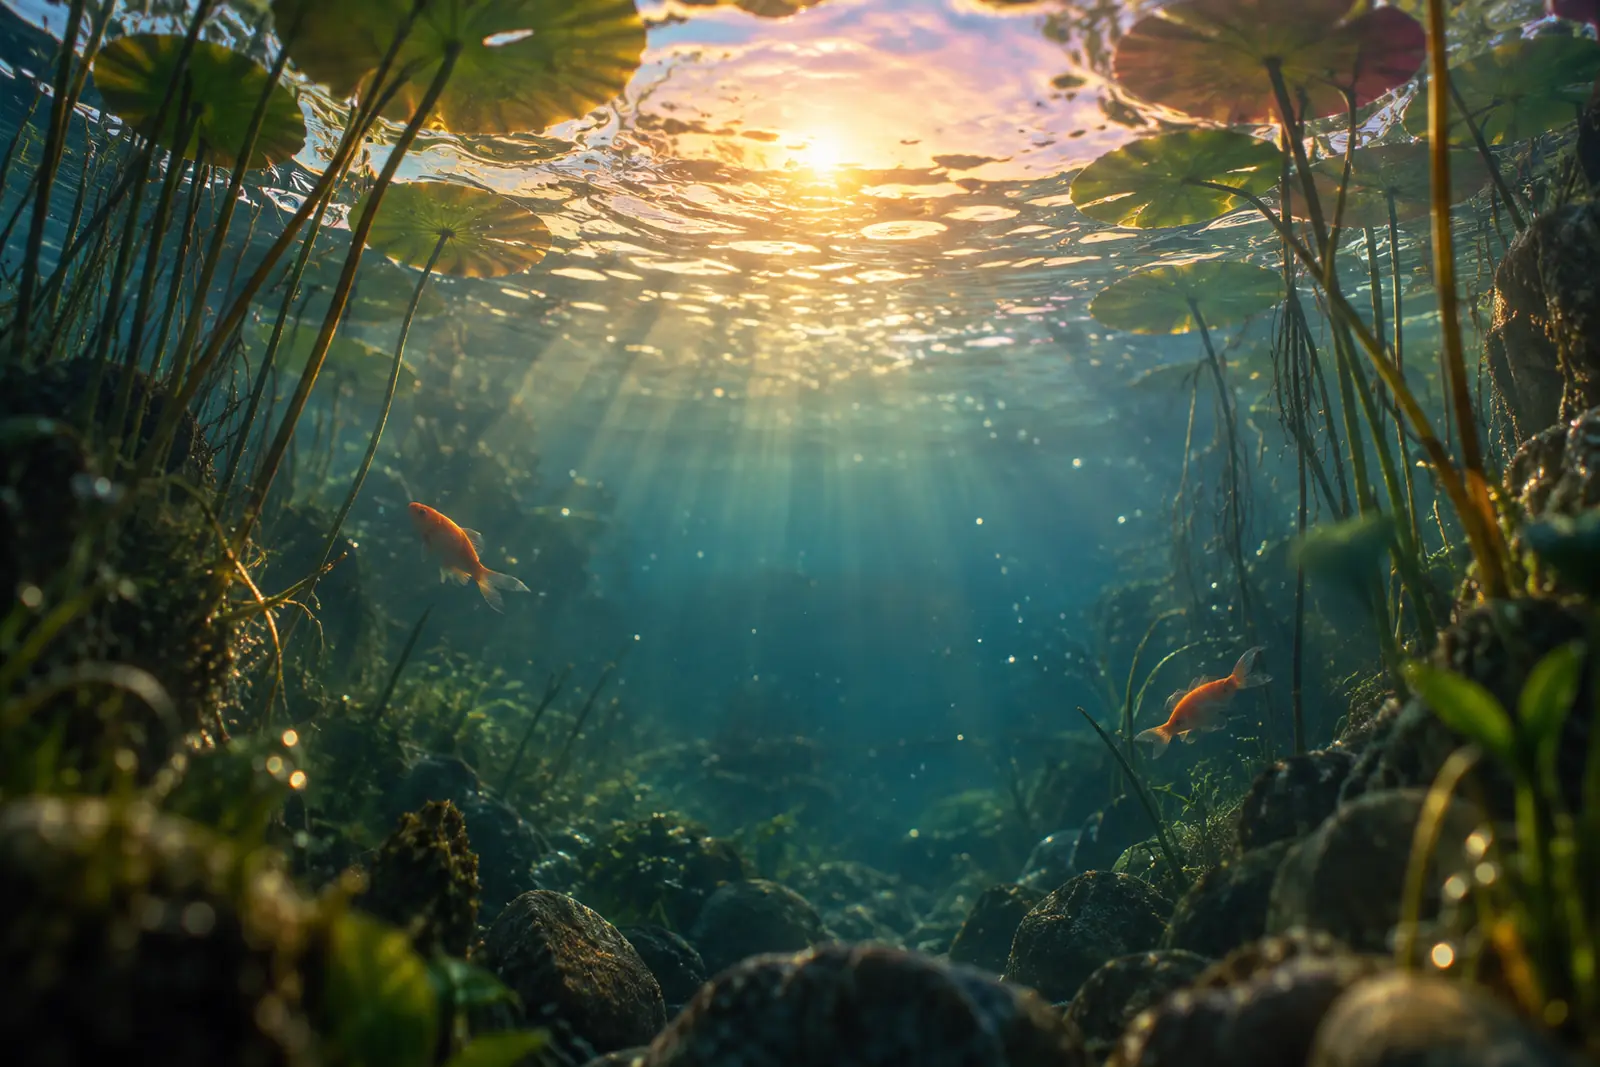
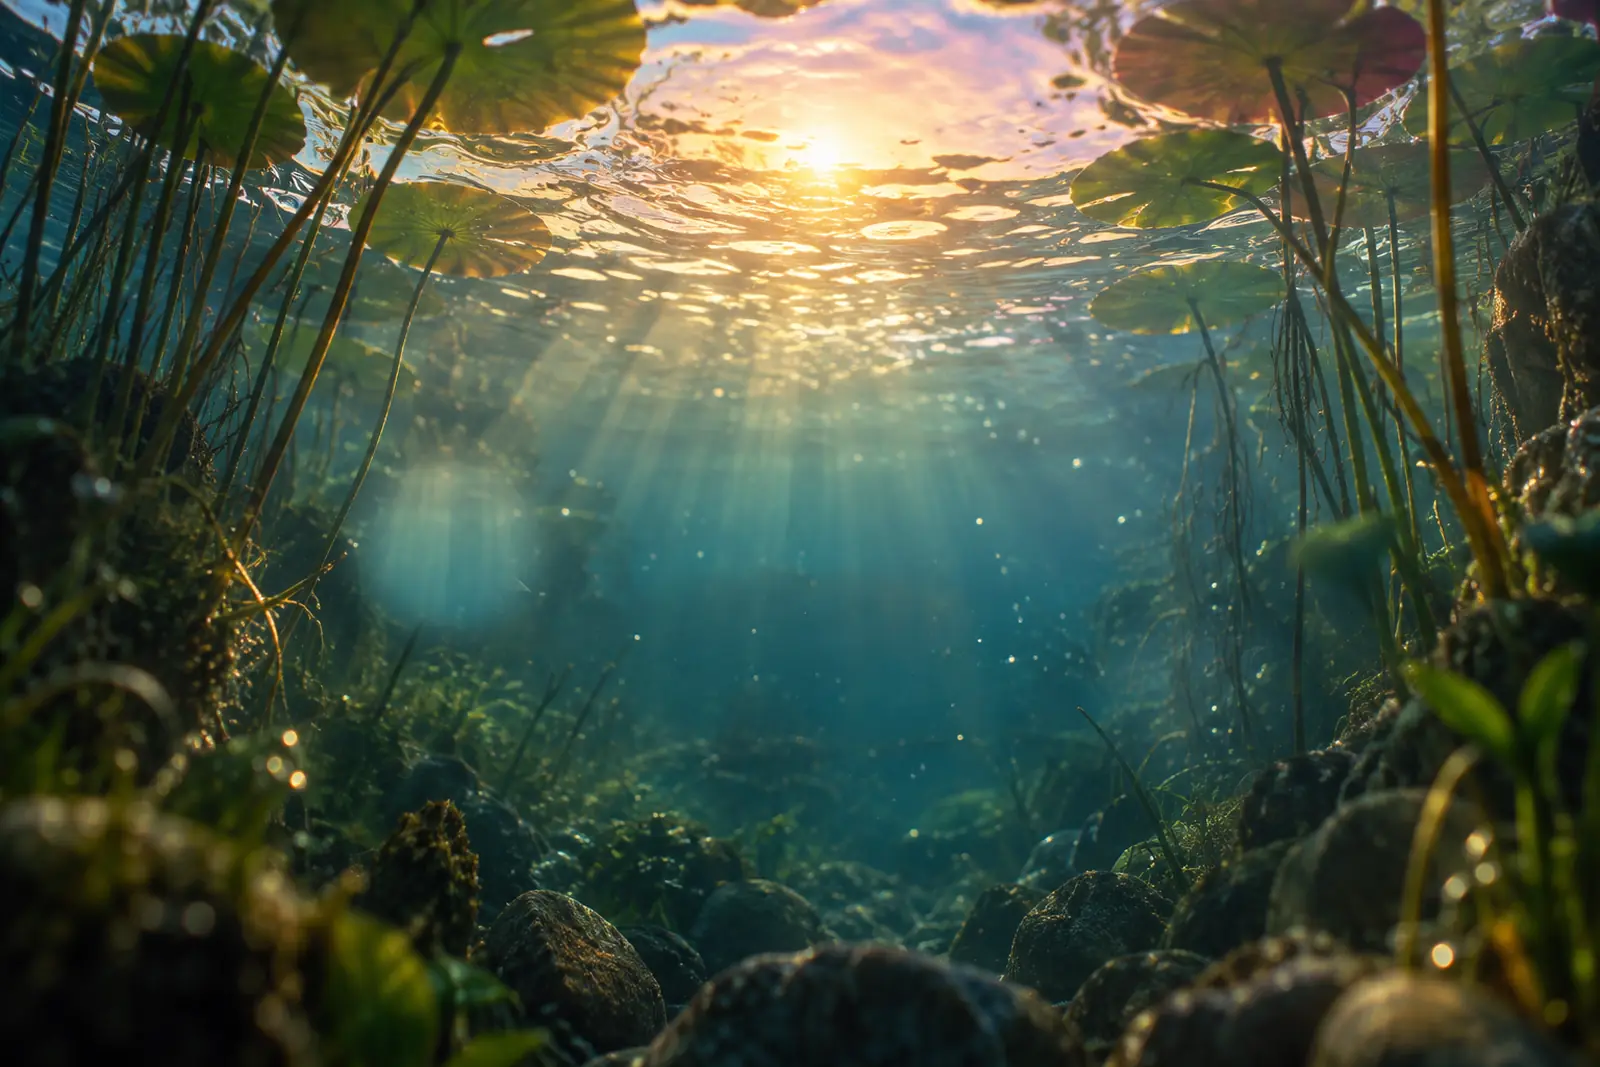
Transition: paint out the two pond fish, drop the songbird
Both orange fish were baked into transition-under, and showed through as
ghosts during the cross-fade; they are patched out with clean water from
the same plate. The songbird sprite read as pasted-on over the scene, so
it is gone too.

Changed region(s): [[0.2188, 0.4021, 0.3438, 0.5876], [0.6875, 0.5876, 0.8125, 0.7423]]

diff --git a/components/SceneLayers.jsx b/components/SceneLayers.jsx
@@ -169,24 +169,14 @@ export default function SceneLayers({ preset }) {
    out of the water as you read the line. */
 export function SceneTransition() {
   const ref = useRef(null);
-  const calm = useReducedMotion();
   const { scrollYProgress } = useScroll({ target: ref, offset: ["start end", "end start"] });
   const gardenOpacity = useTransform(scrollYProgress, [0.28, 0.72], [0, 1]);
   const underOpacity = useTransform(scrollYProgress, [0.28, 0.72], [1, 0]);
-  const near = useInView(ref, { margin: "300px 0px" });
 
   return (
     <div ref={ref} className="scene" aria-hidden="true">
       <motion.img className="scene-plate" src="/scene/transition-under.webp" alt="" loading="lazy" decoding="async" style={{ opacity: underOpacity, scale: 1.05 }} />
       <motion.img className="scene-plate" src="/scene/transition-garden.webp" alt="" loading="lazy" decoding="async" style={{ opacity: gardenOpacity, scale: 1.05 }} />
-      {near && (
-        <motion.img
-          src="/scene/transition-sprite-songbird.webp" alt="" aria-hidden="true" loading="lazy" decoding="async"
-          style={{ position: "absolute", width: "7%", height: "auto", left: 0, top: "22%", opacity: 0.9 }}
-          animate={{ x: ["-20vw", "112vw"], y: [0, -30, 10, -20, 0] }}
-          transition={{ x: { duration: calm ? 40 : 24, repeat: Infinity, ease: "linear" }, y: { duration: 8, repeat: Infinity, ease: "easeInOut" } }}
-        />
-      )}
       <div className="scene-scrim scene-scrim--dark" style={{ "--s": 0.2 }} />
     </div>
   );
